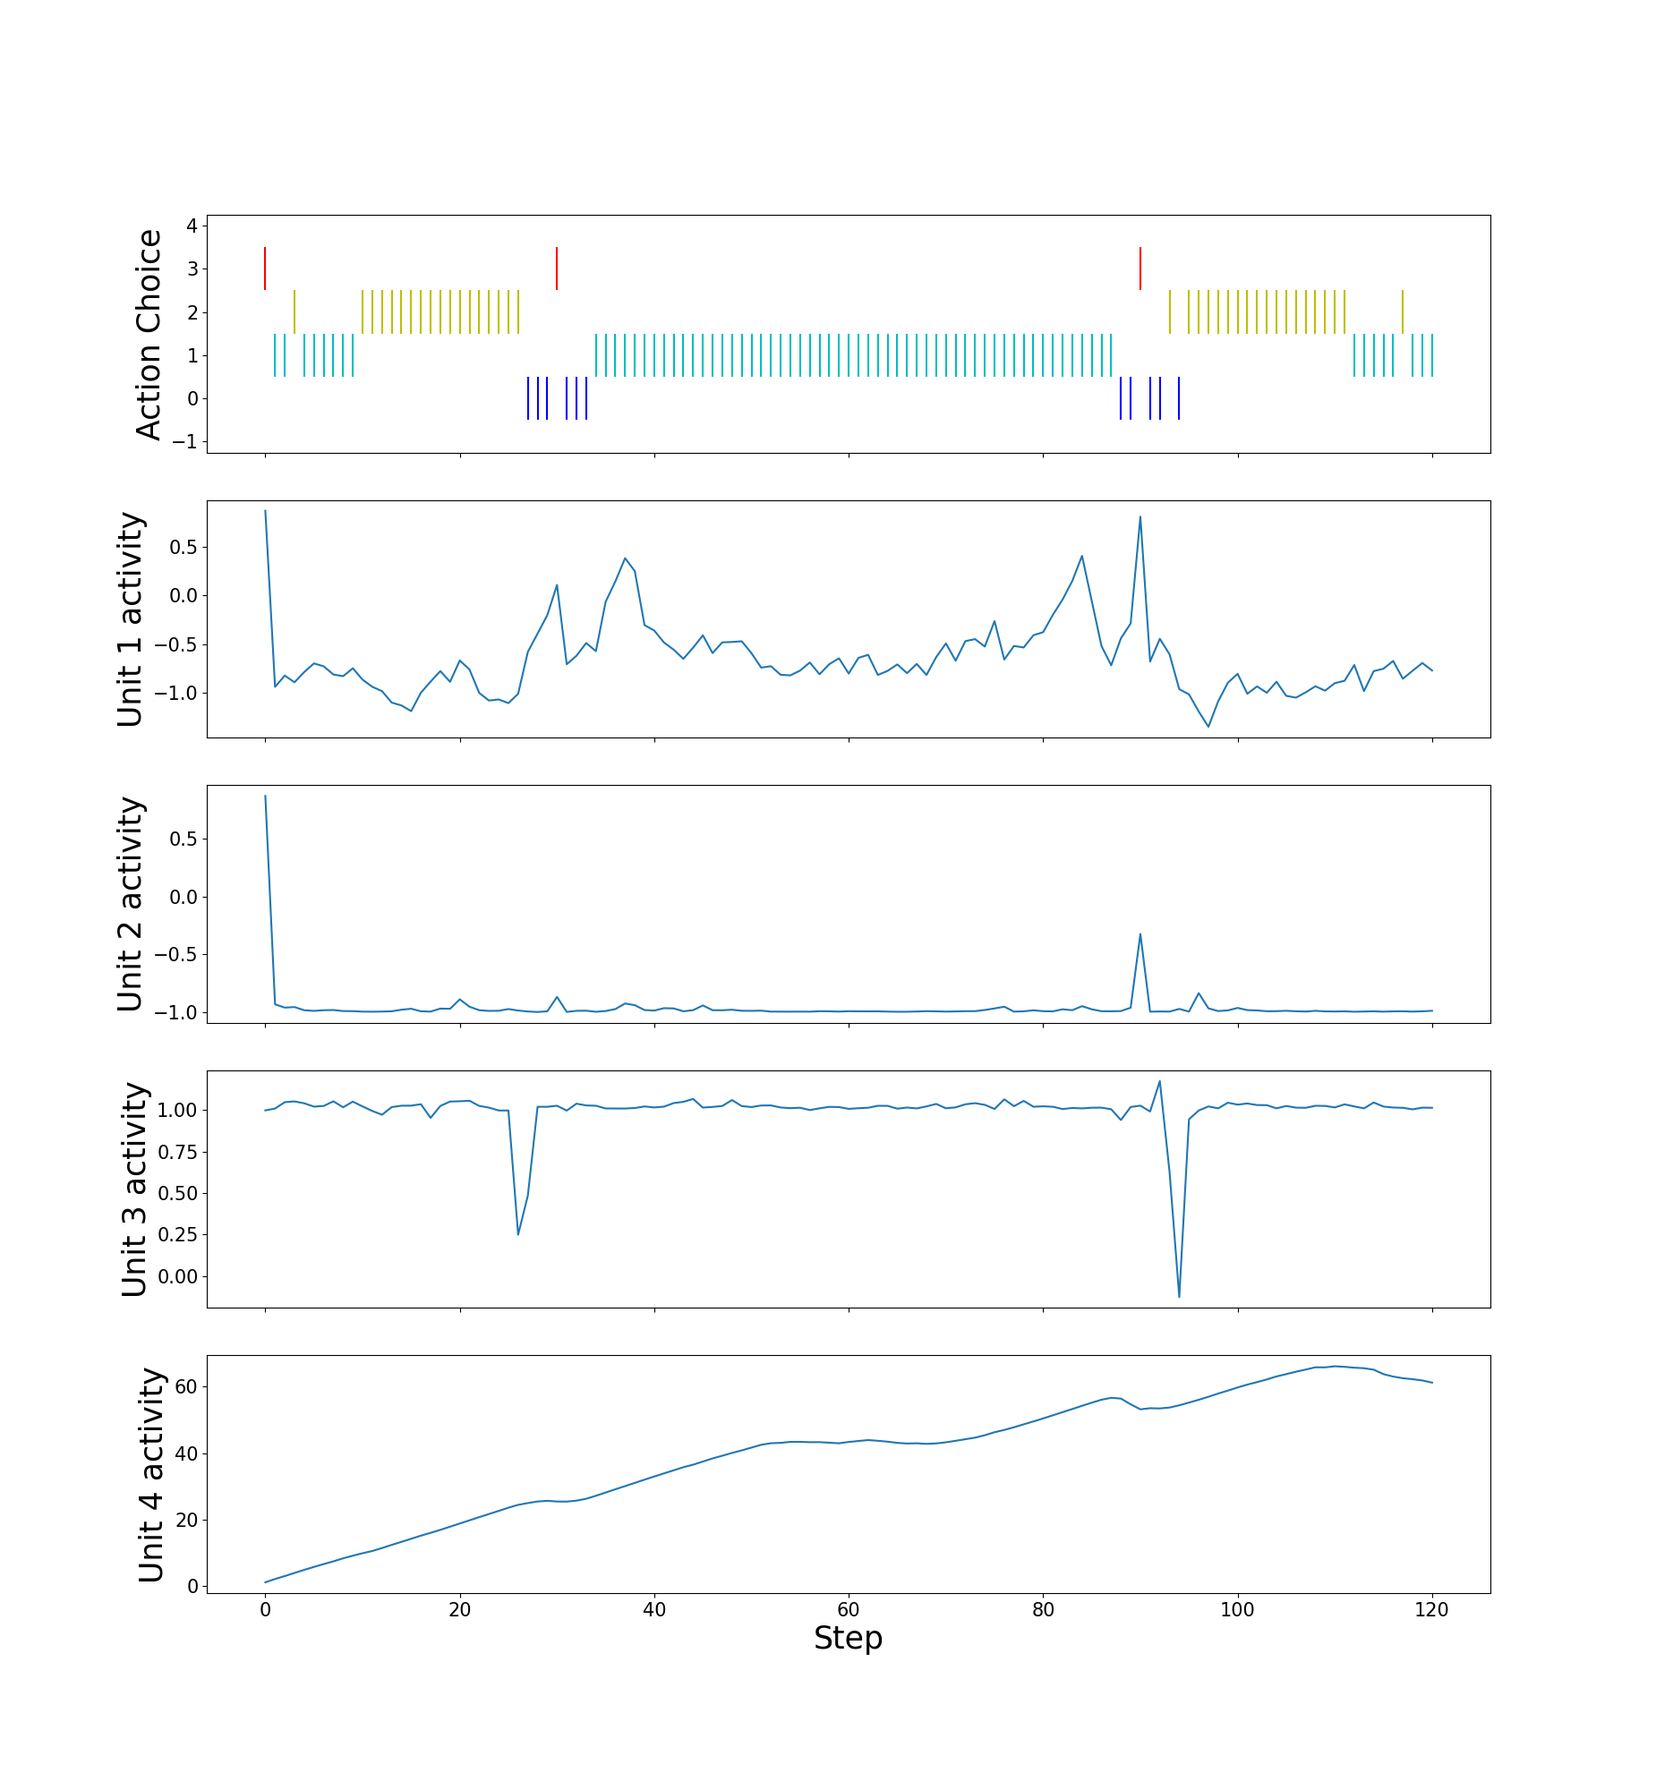
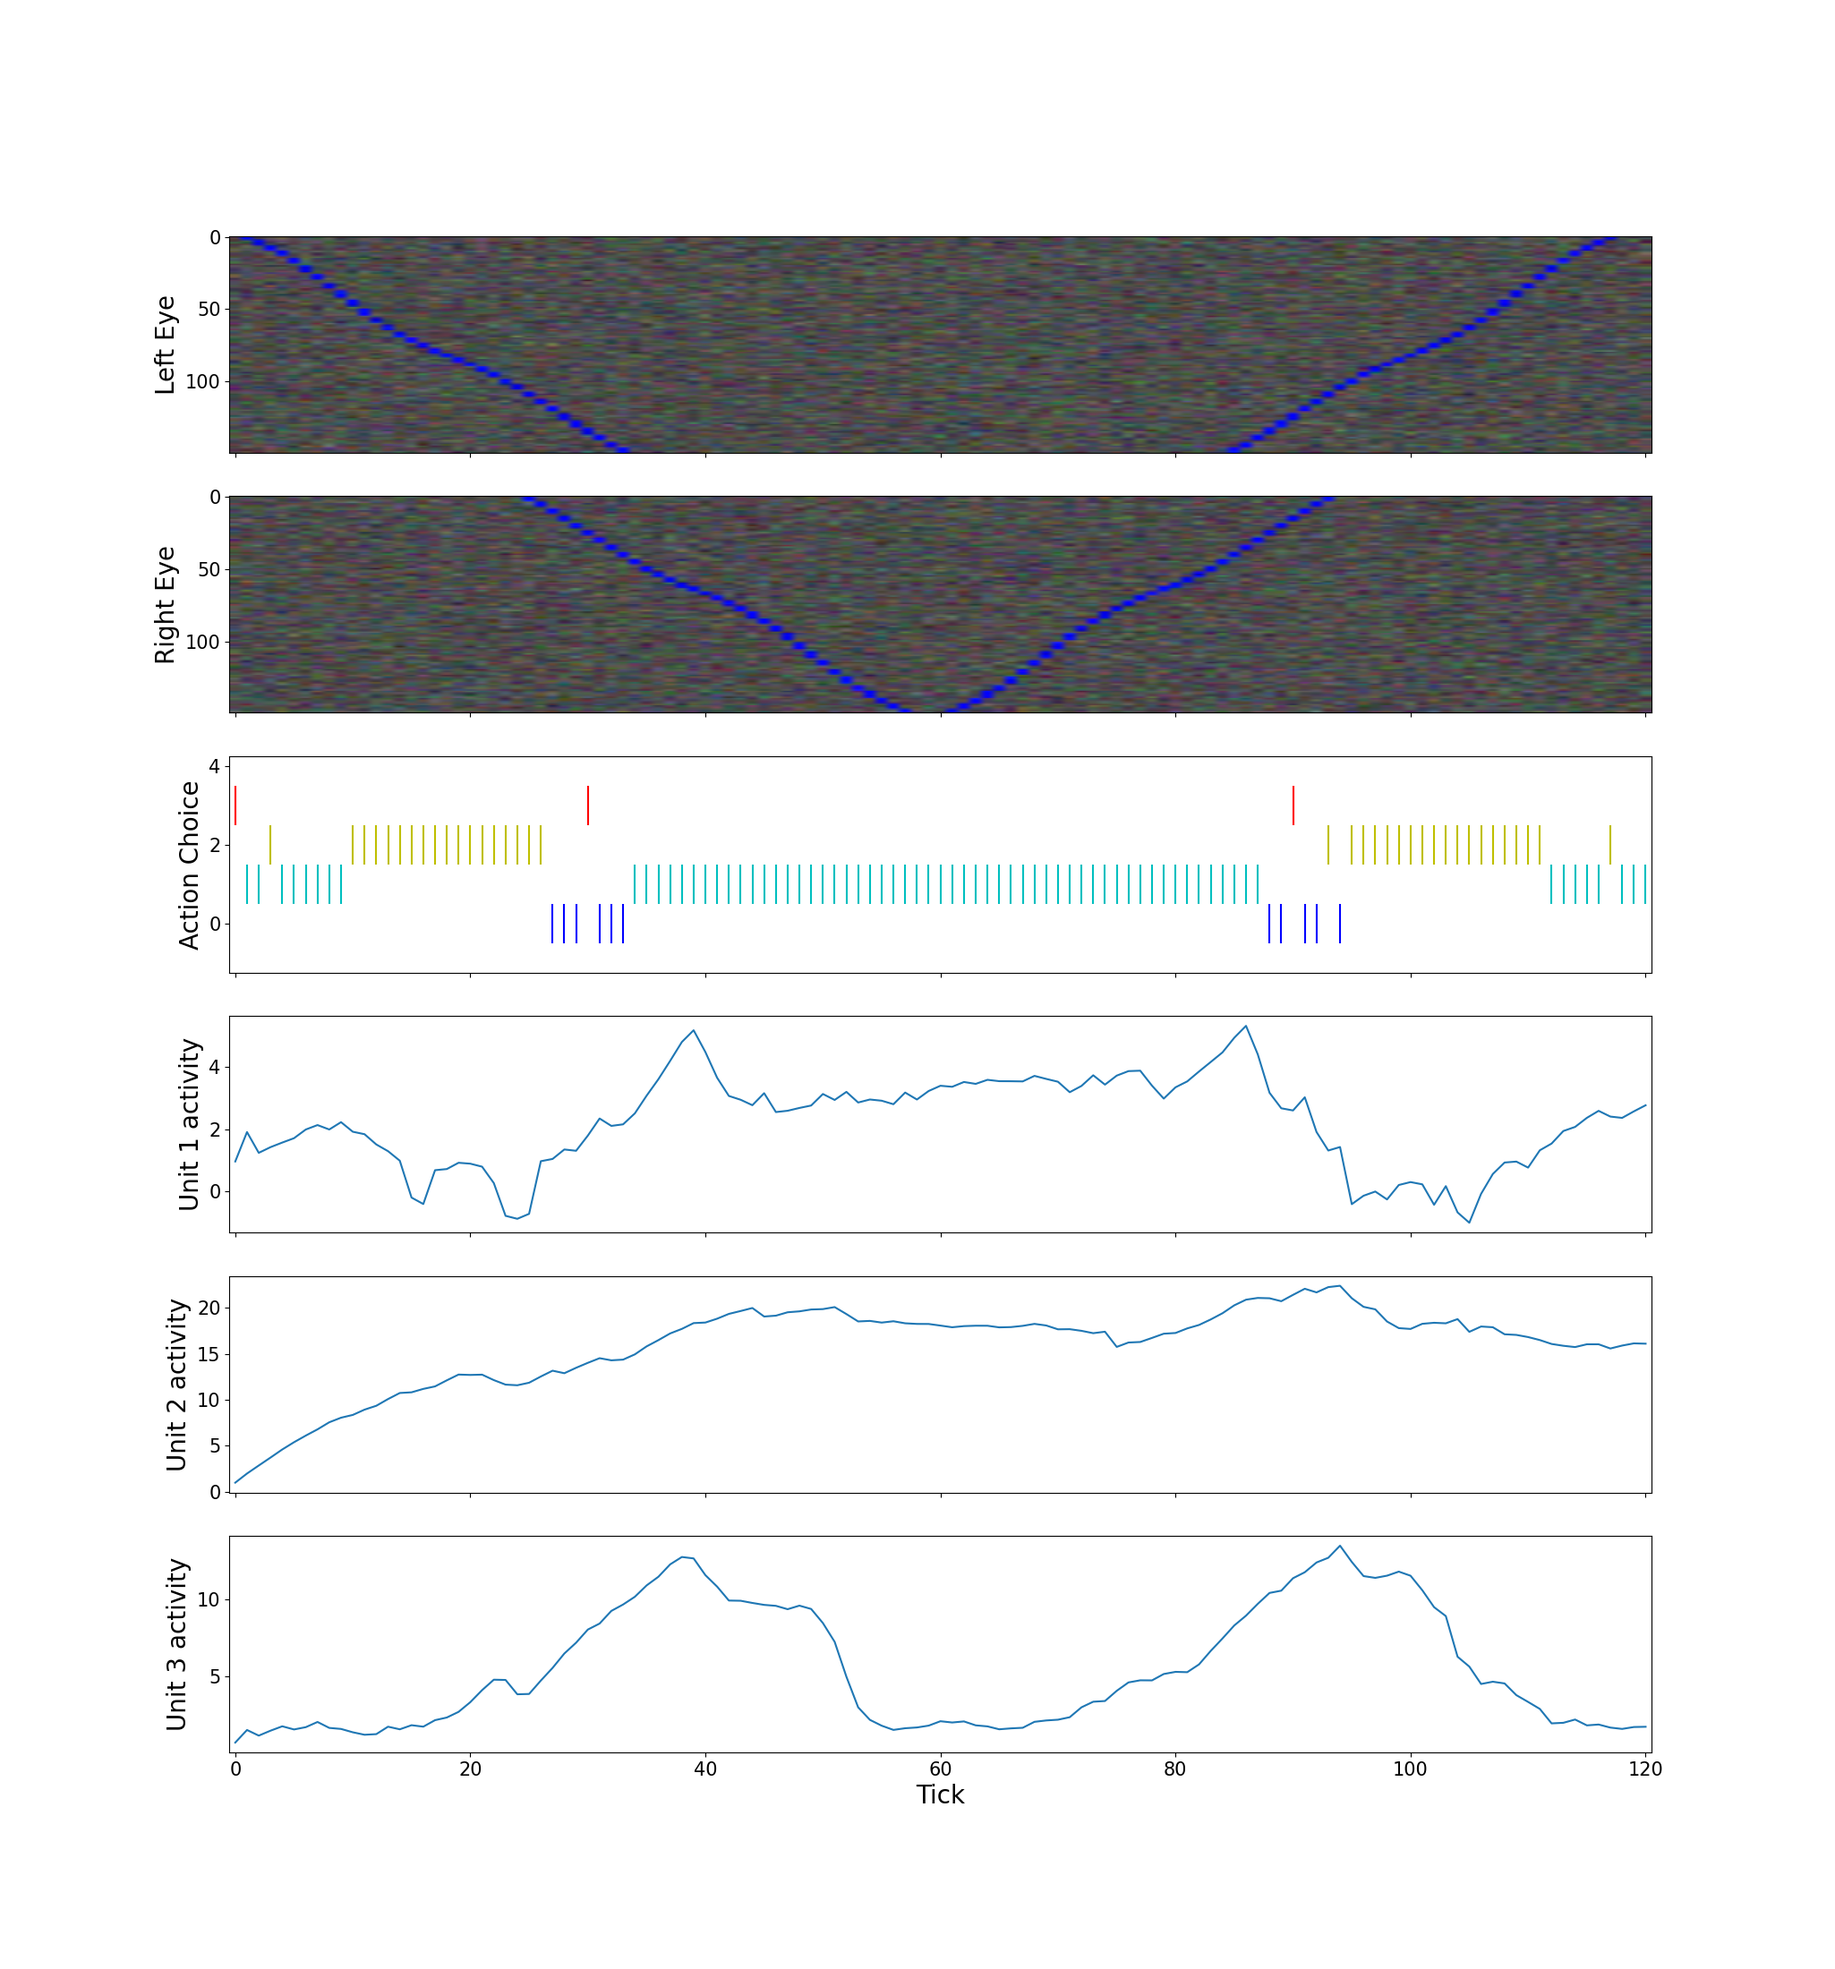
Updated figure gathering

diff --git a/Analysis-Tools/plot_observation_action_choice_and_activity.py b/Analysis-Tools/plot_observation_action_choice_and_activity.py
@@ -1,0 +1,83 @@
+import json
+import numpy as np
+from matplotlib import pyplot as plt
+
+
+def plot_all(rnn_data, observation, action_choice):
+    fig, axs = plt.subplots(6, 1, sharex=True)
+
+    new_observation = convert_photons_to_int(observation)
+    new_observation = new_observation.transpose(1, 0, 2)
+    left = new_observation[:150]
+    right = new_observation[250:]
+
+    separated_actions = []
+    for action in range(7):
+        action_timestamps = [i for i, a in enumerate(action_choice) if a == action]
+        if len(action_timestamps) > 0:
+            separated_actions.append(action_timestamps)
+
+    colorCodes = np.array([(0.0, 0.0, 1.0),
+                           (0.0, 0.75, 0.75),
+                           (0.75, 0.75, 0.0),
+                           (1.0, 0.0, 0.0),])
+
+    axs[0].imshow(left, aspect="auto")
+    axs[1].imshow(right, aspect="auto")
+    axs[0].set_ylabel("Left Eye", fontsize=20)
+    axs[1].set_ylabel("Right Eye", fontsize=20)
+    axs[2].eventplot(separated_actions, color=colorCodes)
+    axs[2].set_ylabel("Action Choice", fontsize=20)
+    axs[3].plot(rnn_data[0])
+    axs[3].set_ylabel("Unit 1 activity", fontsize=20)
+    axs[4].plot(rnn_data[1])
+    axs[4].set_ylabel("Unit 2 activity", fontsize=20)
+    axs[5].plot(rnn_data[2])
+    axs[5].set_ylabel("Unit 3 activity", fontsize=20)
+    axs[5].set_xlabel("Tick", fontsize=20)
+
+    axs[0].tick_params(labelsize=15)
+    axs[1].tick_params(labelsize=15)
+    axs[2].tick_params(labelsize=15)
+    axs[3].tick_params(labelsize=15)
+    axs[4].tick_params(labelsize=15)
+    axs[5].tick_params(labelsize=15)
+
+    fig.set_size_inches(20.5, 22)
+    fig.savefig('test2png.png', dpi=100)
+    plt.show()
+
+
+def convert_photons_to_int(obs):
+    new_obs = np.zeros((121, 400, 3), int)
+    for i, time in enumerate(obs):
+        for j, point in enumerate(obs[i]):
+            for k, receptor in enumerate(obs[i][j]):
+                new_obs[i][j][k] = round(receptor)
+    return new_obs
+
+
+with open("../Assay-Output/base-1/Visual-Stimulus-Assay-1.json", "r") as file:
+    data = json.load(file)
+
+# rnn_unit_1 = [i["rnn state"][0][0] for i in data]
+# rnn_unit_2 = [i["rnn state"][0][1] for i in data]
+# rnn_unit_3 = [i["rnn state"][0][2] for i in data]
+# rnn_unit_200 = [i["rnn state"][0][199] for i in data]
+
+
+rnn_unit_1 = [i["rnn state"][0][9] for i in data]
+rnn_unit_3 = [i["rnn state"][0][19] for i in data]
+rnn_unit_200 = [i["rnn state"][0][190] for i in data]
+
+action_choice = [i["behavioural choice"] for i in data]
+unit_activity = [rnn_unit_1, rnn_unit_3, rnn_unit_200]
+
+
+observation = [i["observation"] for i in data]
+
+observation = np.array(observation)
+
+new_observation = [time[0] for time in observation]
+
+plot_all(unit_activity, new_observation, action_choice)

diff --git a/Analysis-Tools/plot_activity_and_actions.py b/Analysis-Tools/plot_activity_and_actions.py
@@ -7,12 +7,7 @@ with open("../Assay-Output/base-1/Visual-Stimulus-Assay-1.json", "r") as file:
     data = json.load(file)
 
 # TODO: Create code to load everything into a dataframe - should be own function for loading data.
-rnn_unit_1 = [i["rnn state"][0][0] for i in data]
-rnn_unit_2 = [i["rnn state"][0][1] for i in data]
-rnn_unit_3 = [i["rnn state"][0][2] for i in data]
-rnn_unit_200 = [i["rnn state"][0][199] for i in data]
 
-action_choice = [i["behavioural choice"] for i in data]
 
 # Shorten action choice
 
@@ -80,7 +75,7 @@ def plot_activity_and_actions(rnn_data, action_data):
                            (0.0, 0.75, 0.75),
                            (0.75, 0.75, 0.0),
                            (1.0, 0.0, 0.0),])
-    fig, axs = plt.subplots(5, 1, sharex=True)
+    fig, axs = plt.subplots(4, 1, sharex=True)
     # positions = range(len(colour_sequence))
     # colour_sequence = colour_sequence[1:]
     # plt.eventplot(separated_actions, color=colorCodes)
@@ -93,14 +88,14 @@ def plot_activity_and_actions(rnn_data, action_data):
     axs[2].set_ylabel("Unit 2 activity", fontsize=25)
     axs[3].plot(rnn_data[2])
     axs[3].set_ylabel("Unit 3 activity", fontsize=25)
-    axs[4].plot(rnn_data[3])
-    axs[4].set_ylabel("Unit 4 activity", fontsize=25)
-    axs[4].set_xlabel("Step", fontsize=25)
+    # axs[4].plot(rnn_data[3])
+    # axs[4].set_ylabel("Unit 4 activity", fontsize=25)
+    axs[3].set_xlabel("Step", fontsize=25)
     axs[0].tick_params(labelsize=15)
     axs[1].tick_params(labelsize=15)
     axs[2].tick_params(labelsize=15)
     axs[3].tick_params(labelsize=15)
-    axs[4].tick_params(labelsize=15)
+    # axs[4].tick_params(labelsize=15)
 
     # axs[0].set_ylim(0.5, 1.5)
     fig.set_size_inches(18.5, 20)
@@ -116,7 +111,12 @@ def plot_activity_and_actions(rnn_data, action_data):
 #     plot_activity_and_action(rnn_unit_200, i, action_choice)
 
 # For all actions
-unit_activity = [rnn_unit_1, rnn_unit_2, rnn_unit_3, rnn_unit_200]
+rnn_unit_1 = [i["rnn state"][0][0] for i in data]
+rnn_unit_3 = [i["rnn state"][0][19] for i in data]
+rnn_unit_200 = [i["rnn state"][0][190] for i in data]
+
+action_choice = [i["behavioural choice"] for i in data]
+unit_activity = [rnn_unit_1, rnn_unit_3, rnn_unit_200]
 plot_activity_and_actions(unit_activity, action_choice)
 
 # plt.plot(calculate_average_rnn_activity())

diff --git a/Analysis-Tools/plot_activity_and_observations.py b/Analysis-Tools/plot_activity_and_observations.py
@@ -5,7 +5,7 @@ import matplotlib.cm as cm
 
 
 def plot_activity(rnn_data, observation):
-    fig, axs = plt.subplots(6, 1, sharex=True)
+    fig, axs = plt.subplots(2, 1, sharex=True)
 
     new_observation = convert_photons_to_int(observation)
     new_observation = new_observation.transpose(1, 0, 2)
@@ -14,26 +14,28 @@ def plot_activity(rnn_data, observation):
 
     axs[0].imshow(left, aspect="auto")
     axs[1].imshow(right, aspect="auto")
+    axs[0].set_ylabel("Left Photons")
+    axs[1].set_ylabel("Right Photons")
 
 
-    axs[2].plot(rnn_data[0])
-    axs[2].set_ylabel("Unit 1 activity", fontsize=25)
-    axs[3].plot(rnn_data[1])
-    axs[3].set_ylabel("Unit 2 activity", fontsize=25)
-    axs[4].plot(rnn_data[2])
-    axs[4].set_ylabel("Unit 3 activity", fontsize=25)
-    axs[5].plot(rnn_data[3])
-    axs[5].set_ylabel("Unit 4 activity", fontsize=25)
-    axs[5].set_xlabel("Step", fontsize=25)
+    # axs[2].plot(rnn_data[0])
+    # axs[2].set_ylabel("Unit 1 activity", fontsize=25)
+    # axs[3].plot(rnn_data[1])
+    # axs[3].set_ylabel("Unit 2 activity", fontsize=25)
+    # axs[4].plot(rnn_data[2])
+    # axs[4].set_ylabel("Unit 3 activity", fontsize=25)
+    # axs[5].plot(rnn_data[3])
+    # axs[5].set_ylabel("Unit 4 activity", fontsize=25)
+    # axs[5].set_xlabel("Step", fontsize=25)
     axs[0].tick_params(labelsize=15)
     axs[1].tick_params(labelsize=15)
-    axs[2].tick_params(labelsize=15)
-    axs[3].tick_params(labelsize=15)
-    axs[4].tick_params(labelsize=15)
-    axs[5].tick_params(labelsize=15)
+    # axs[2].tick_params(labelsize=15)
+    # axs[3].tick_params(labelsize=15)
+    # axs[4].tick_params(labelsize=15)
+    # axs[5].tick_params(labelsize=15)
 
     # axs[0].set_ylim(0.5, 1.5)
-    fig.set_size_inches(18.5, 20)
+    # fig.set_size_inches(18.5, 20)
     fig.savefig('test2png.png', dpi=100)
     plt.show()
 

diff --git a/Analysis-Tools/plot_action_choice_frequency.py b/Analysis-Tools/plot_action_choice_frequency.py
@@ -133,7 +133,7 @@ def create_boxplots(index, models, timestamp):
         # action_lists.append(points)
     # data["values"] = action_lists
     data = pd.DataFrame(data)
-    ax = sns.boxplot(y="frequency", x="action", data=data, whis=np.inf)
+    ax = sns.boxplot(y="frequency", x="action", data=data, fliersize=0)  # whis=np.inf
     ax = sns.stripplot(y="frequency", x="action", data=data, color=".3")
     ax.tick_params(labelsize=10)
     plt.title(f"Frequency of actions at step {str(timestamp)}")
@@ -164,17 +164,17 @@ for model in models:
 
 long_models = ["base-6", "base-7", "base-8"]
 
-# create_boxplots(500, models, 1000000)
-# create_boxplots(999, models, 2000000)
+create_boxplots(500, models, 1000000)
+create_boxplots(999, models, 2000000)
 
 # Produce running average action frequency graphs
 # create_action_plots(0)
 # create_action_plots(1)
 # create_action_plots(6)
 
-create_action_plots_unrestricted(0, long_models)
-create_action_plots_unrestricted(1, long_models)
-create_action_plots_unrestricted(6, long_models)
+# create_action_plots_unrestricted(0, long_models)
+# create_action_plots_unrestricted(1, long_models)
+# create_action_plots_unrestricted(6, long_models)
 
 
 

diff --git a/Analysis-Tools/create_photoreceptor_input_graph.py b/Analysis-Tools/create_photoreceptor_input_graph.py
@@ -12,6 +12,7 @@ observation = np.array(observation)
 
 new_observation = [time[0] for time in observation]
 
+
 def convert_photons_to_int(obs):
     new_obs = np.zeros((121, 400, 3), int)
     for i, time in enumerate(obs):
